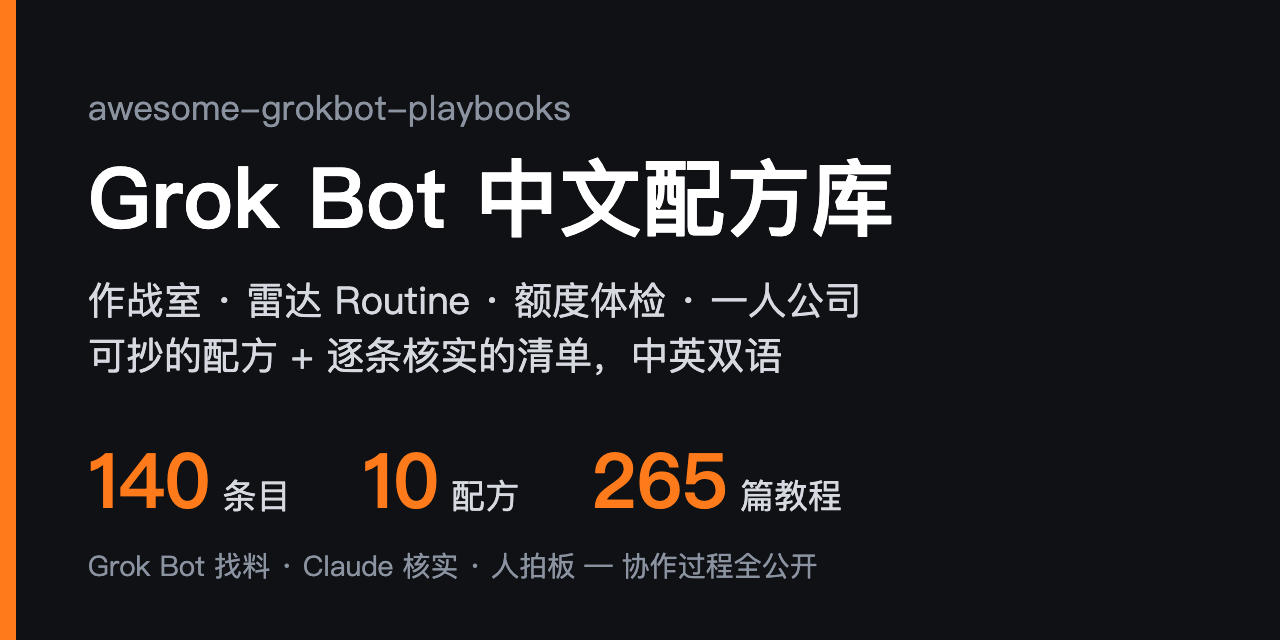
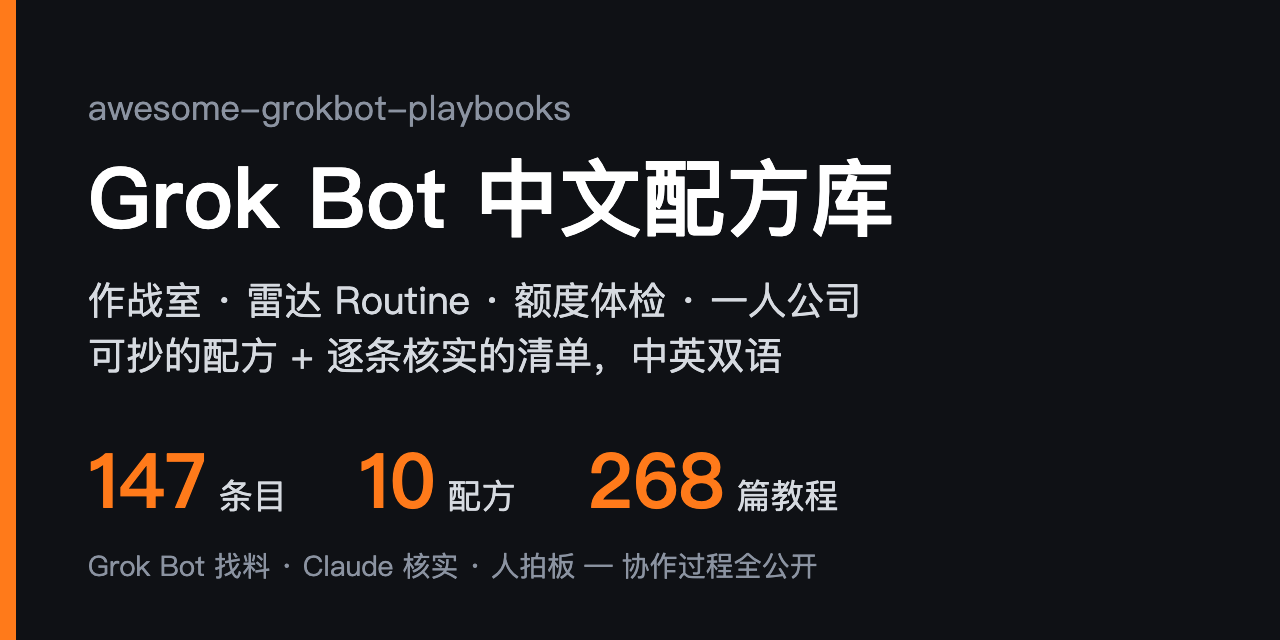
collab: loop #71 README +7 (140 -> 147) from 10-29 recheck, recheck -6 / postpone 11 / +1, x-articles 232 -> 235 (tutorials 265 -> 268)

Changed region(s): [[0.4688, 0.7188, 0.6562, 0.8125], [0.2812, 0.7188, 0.4062, 0.8125], [0.125, 0.6875, 0.25, 0.8125]]

diff --git a/.collab/recheck.md b/.collab/recheck.md
@@ -87,28 +87,19 @@ Claude 维护。仓库没过收录门槛（见 [CONTRIBUTING.md](../CONTRIBUTING
 | [cwijayasundara/cloud_harness_bots_v1](https://github.com/cwijayasundara/cloud_harness_bots_v1) | 11-04 | 0★ · MIT · 建 10-28 · 最近提交 10-28 | 六个 bot 岗位派 `claude --cloud` 干活，每次提交跑 ub-crap/ub-dry 质量门，`chb merge` 按策略决定能否合并；过线时放「多 Bot 团队」 |
 | [nsoliven/grok-bot-setup](https://github.com/nsoliven/grok-bot-setup) | 11-04 | 0★ · MIT · 建 10-28 · 最近提交 10-28 | 家用 Linux 不开公网接 bot：T3 Code 线程真在等你才发 webhook（只发元数据、有日上限），回聊天一句话经 4 个工具的窄权限 MCP 回复；cloudflared 只出站；过线时和 t3-tots、T3 Code Bridge 模板一起看 |
 | [rakei076/resethook](https://github.com/rakei076/resethook) | 11-04 | 0★ · MIT · 建 10-28 · 最近提交 10-28 | Codex 额度重置预告经 webhook 叫醒 bot，skill 估算能否在截止前用完再派只读 Codex 任务；安装走第三方站点 `curl \| sh` 和托管服务，过线时先读源码、确认能不能自部署，不能就拒 |
+| [huaspirit123/grokbot-visual-office](https://github.com/huaspirit123/grokbot-visual-office) | 11-04 | 0★ · Apache-2.0 · 建 10-28 · 最近提交 10-28 | 多 Bot 像素办公室看板：一眼看谁在干活、谁卡住、谁等你确认；纯前端无后端无 key，按 JSON Schema 喂数据，中文默认、示例数据虚构；过线时和 Olivia295/grokbot-team-monitor-UI 比一比 |
 | [Crokily/pi-durable-bot](https://github.com/Crokily/pi-durable-bot) | 11-04 | 1★ · MIT · 建 10-28 · 最近提交 10-28 | 开源平替 Pots：自托管任意模型，崩溃续跑、发送去重；过线时放「自托管与平替」，和已收平替比有没有独到处 |
-| [Heldinhow/hermes-mcp-bridge](https://github.com/Heldinhow/hermes-mcp-bridge) | 10-29 | 0★ · MIT · 建 10-22 · 3 次提交 | 云端 agent 经隧道给本机 Hermes 派活的 MCP；到期先判断是否以 Grok Bot 为主，偏 Hermes 就不收 |
-| [frysquint/herdr-mcp](https://github.com/frysquint/herdr-mcp) | 10-29 | 0★ · MIT · 建 10-22 · 1 次提交 | Grok Bot 经 MCP 看管 Herdr 终端里的 Claude Code / Codex；和 wingman、grokbot-cli 同类，到期比一比有没有新东西 |
-| [maplenk/grok-wear](https://github.com/maplenk/grok-wear) | 10-29 | 0★ · 自定义 LICENSE（API 显示 NOASSERTION）· 建 10-22 · 2 次提交 | 非官方 Wear OS 手表语音客户端；到期读 LICENSE 原文，非标准许可证就不收 |
-| [franklinjavier/grokbot-quota-template](https://github.com/franklinjavier/grokbot-quota-template) | 10-29 | 0★ · MIT · 建 10-15 · 只有 1 次提交 | 只读的舰队用量看板模板；已满 7 天但建仓后没有新提交，不过线；到期有新提交再看 |
-| [mehh/vm-vitals](https://github.com/mehh/vm-vitals) | 10-29 | 0★ · MIT · 建 10-22 · 14 次提交 | 一段 prompt 让 bot 在云电脑上装监控 agent，出 CPU/内存/进程仪表盘；数据报给作者的站点，还能开公开页，到期核隐私说明和数据存哪 |
-| [misselvexu/grokbot-x-ops-skill](https://github.com/misselvexu/grokbot-x-ops-skill) | 10-29 | 0★ · MIT · 建 10-22 | 中英双语单文件 skill，访谈后自动建 X 运营 bot + skills + routines，起草→人批→发布；过线放「技能与玩法」 |
-| [Obiwayne/grokbot-inbox-assistant](https://github.com/Obiwayne/grokbot-inbox-assistant) | 10-29 | 0★ · MIT · 建 10-22 | 主线是 n8n + AgentMail + Grok API，不是 Grok Bot；`grok-bot/` 子包作者注明未实测。到期看 Grok Bot 轨道是否成主线，否则移出 |
-| [company-notes/grok-bot-backup](https://github.com/company-notes/grok-bot-backup) | 10-29 | 0★ · MIT · 建 10-22 | 繁中 box 备份/导出（人设、记忆、对话、附件）；产出含私密对话和可能的凭证，收录时短评必须带这条警示 |
-| [207studio-oss/kiwi-hook](https://github.com/207studio-oss/kiwi-hook) | 10-29 | 0★ · MIT · 建 10-22 | Codex / Claude Code 回合结束 hook → webhook 叫醒 bot 验收、开 PR、派下一步；短评写清「规则允许才合并」 |
-| [crusader0711/specialized-ai-grok-empire](https://github.com/crusader0711/specialized-ai-grok-empire) | 10-29 | 0★ · MIT · 建 10-22 | 家庭/小公司 bot 团队制度包：幕僚长前门、GREEN/YELLOW/RED 审批分级、缺数据出 gap card；过线放「多 Bot 团队」 |
-| [zzyong24/grokbot-team-kit](https://github.com/zzyong24/grokbot-team-kit) | 10-29 | 0★ · MIT · 建 10-22 | 中文一人内容团队整包：总管 + 14 张岗位卡、6 类审批点、共享罗盘目录；过线放「中文一人公司」或「多 Bot 团队」 |
-| [Cisen07/harness-bridge](https://github.com/Cisen07/harness-bridge) | 10-29 | 0★ · MIT · 建 10-22 | 云端 bot 经 Tailscale 调度本机 Codex / Claude Code，终态 webhook 回推；短评写明要开 tailnet 和本机常驻服务 |
-| [0xreggiej/grok-bot-router](https://github.com/0xreggiej/grok-bot-router) | 10-29 | 0★ · MIT · 建 10-22 | 本机 shell 桥，Grok Bot 经 Magpie 派活给 Codex / OpenCode，验收要回读产出文件；需本机已装 Magpie CLI |
-| [devicki/ourobot](https://github.com/devicki/ourobot) | 10-29 | 0★ · MIT · 建 10-22 | 顾问 bot：把 Q00/ouroboros 包成 Grok Bot 引擎，本机跑 Ouroboros MCP + Claude Code + Grok Build；默认只咨询、验收，到期核是否真以 Grok Bot 为主 |
-| [ericyangpan/grokbot-weixin](https://github.com/ericyangpan/grokbot-weixin) | 10-29 | 0★ · MIT · 建 10-22 | 微信 iLink → Grok Bot webhook 双向桥，目前只有 README；到期看代码有没有补上；10-24 Grok 报已长成完整 TS 桥（CF Worker/Node、媒体解密、allowlist），到期按新内容写短评 |
-| [naoiseirwin/Tesla-Grokbot-Connector](https://github.com/naoiseirwin/Tesla-Grokbot-Connector) | 10-29 | 0★ · MIT · 建 10-22 | 只读 Tesla Fleet MCP（电量、充电、行程，不能控车），目前只有 README |
-| [hermeshai/hermesh](https://github.com/hermeshai/hermesh) | 10-29 | 0★ · Apache-2.0 · 建 10-22 | 云端 bot 经 MCP 派活给本机 Claude Code / Codex，Touch ID 批项目授权；短评写明本机要常驻服务 |
-| [walter-grace/cooks](https://github.com/walter-grace/cooks) | 10-29 | 0★ · MIT · 建 10-22 | 自托管销售外联 + 32 工具 MCP；到期核是否以 Grok Bot 为主，还是通用 MCP |
-| [Obiwayne/grokbot-receipts](https://github.com/Obiwayne/grokbot-receipts) | 10-29 | 0★ · MIT · 建 10-22 | @bot 事实核验 skill：归档原文、逐字核引文、两家独立来源才下结论，只出草稿不发帖；作者注明 Grok Bot 包没真机测 |
-| [antonyfuentesdev/spanish-teacher-bot-template](https://github.com/antonyfuentesdev/spanish-teacher-bot-template) | 10-29 | 0★ · CC BY-NC 4.0（GitHub 识别为 Other）· 建 10-22 | 西语教师 bot 模板源：人设、记忆、routine、13 个 skill；收录时注明不能商用 |
-| [digitalocean/grokbot-plugin](https://github.com/digitalocean/grokbot-plugin) | 10-29 | 0★ · MIT · 建 10-22 | DO 官方插件：7 个 MCP + 11 个 skill；README 主写 Cursor，到期核能否原生装进 Grok Bot，商业类每节最多 1 条 |
+| [Heldinhow/hermes-mcp-bridge](https://github.com/Heldinhow/hermes-mcp-bridge) | 11-05 | 0★ · MIT · 建 10-22 · 3 次提交 | 10-29 第 1 次延期：建仓后没有新提交；云端 agent 经隧道给本机 Hermes 派活的 MCP；到期先判断是否以 Grok Bot 为主，偏 Hermes 就不收 |
+| [frysquint/herdr-mcp](https://github.com/frysquint/herdr-mcp) | 11-05 | 0★ · MIT · 建 10-22 · 1 次提交 | 10-29 第 1 次延期：建仓后没有新提交；Grok Bot 经 MCP 看管 Herdr 终端里的 Claude Code / Codex；和 wingman、grokbot-cli 同类，到期比一比有没有新东西 |
+| [franklinjavier/grokbot-quota-template](https://github.com/franklinjavier/grokbot-quota-template) | 11-05 | 0★ · MIT · 建 10-15 · 只有 1 次提交 | 10-29 第 2 次延期：唯一一次提交在建仓次日，之后没有新提交，11-05 再不过线就移出；只读的舰队用量看板模板；已满 7 天但建仓后没有新提交，不过线；到期有新提交再看 |
+| [mehh/vm-vitals](https://github.com/mehh/vm-vitals) | 11-05 | 0★ · MIT · 建 10-22 · 14 次提交 | 10-29 第 1 次延期：建仓后没有新提交；一段 prompt 让 bot 在云电脑上装监控 agent，出 CPU/内存/进程仪表盘；数据报给作者的站点，还能开公开页，到期核隐私说明和数据存哪 |
+| [misselvexu/grokbot-x-ops-skill](https://github.com/misselvexu/grokbot-x-ops-skill) | 11-05 | 0★ · MIT · 建 10-22 | 10-29 第 1 次延期：建仓后没有新提交；中英双语单文件 skill，访谈后自动建 X 运营 bot + skills + routines，起草→人批→发布；过线放「技能与玩法」 |
+| [Obiwayne/grokbot-inbox-assistant](https://github.com/Obiwayne/grokbot-inbox-assistant) | 11-05 | 0★ · MIT · 建 10-22 | 10-29 第 1 次延期：建仓后没有新提交；主线是 n8n + AgentMail + Grok API，不是 Grok Bot；`grok-bot/` 子包作者注明未实测。到期看 Grok Bot 轨道是否成主线，否则移出 |
+| [207studio-oss/kiwi-hook](https://github.com/207studio-oss/kiwi-hook) | 11-05 | 0★ · MIT · 建 10-22 | 10-29 第 1 次延期：建仓后没有新提交；Codex / Claude Code 回合结束 hook → webhook 叫醒 bot 验收、开 PR、派下一步；短评写清「规则允许才合并」 |
+| [zzyong24/grokbot-team-kit](https://github.com/zzyong24/grokbot-team-kit) | 11-05 | 0★ · MIT · 建 10-22 | 10-29 第 1 次延期：建仓后没有新提交；中文一人内容团队整包：总管 + 14 张岗位卡、6 类审批点、共享罗盘目录；过线放「中文一人公司」或「多 Bot 团队」 |
+| [devicki/ourobot](https://github.com/devicki/ourobot) | 11-05 | 0★ · MIT · 建 10-22 | 10-29 第 1 次延期：建仓后没有新提交；顾问 bot：把 Q00/ouroboros 包成 Grok Bot 引擎，本机跑 Ouroboros MCP + Claude Code + Grok Build；默认只咨询、验收，到期核是否真以 Grok Bot 为主 |
+| [Obiwayne/grokbot-receipts](https://github.com/Obiwayne/grokbot-receipts) | 11-05 | 0★ · MIT · 建 10-22 | 10-29 第 1 次延期：建仓后没有新提交；@bot 事实核验 skill：归档原文、逐字核引文、两家独立来源才下结论，只出草稿不发帖；作者注明 Grok Bot 包没真机测 |
+| [antonyfuentesdev/spanish-teacher-bot-template](https://github.com/antonyfuentesdev/spanish-teacher-bot-template) | 11-05 | 0★ · CC BY-NC 4.0（GitHub 识别为 Other）· 建 10-22 | 10-29 第 1 次延期：建仓后没有新提交；西语教师 bot 模板源：人设、记忆、routine、13 个 skill；收录时注明不能商用 |
 | [aipmer/codex-grok-task-bridge](https://github.com/aipmer/codex-grok-task-bridge) | 10-30 | 4★ · Apache-2.0 · 建 09-12 · 最近提交 09-20 | 门槛已过，但 README 自己写 Grok Bot 侧「还要接 connector、测 routine」。到期看作者跑通没有，跑通就收；仍没跑通就移出 |
 | [markmcnair/chief-of-staff-kit](https://github.com/markmcnair/chief-of-staff-kit) | 10-30 | 0★ · MIT · 建 10-23 | Beeper / iMessage 新消息 → webhook routine 起草，只有你批准的行才经 Supabase outbox 发出；短评写明要接 Supabase 和本机 Mac |
 | [yeemio/grokbots-team](https://github.com/yeemio/grokbots-team) | 10-30 | 0★ · MIT · 建 10-23 | 多 bot 团队运维小工具（PR 交接唤醒总管、X 草稿队列不自动发）；到期看是否脱离个人环境、能给别人用 |
@@ -120,7 +111,6 @@ Claude 维护。仓库没过收录门槛（见 [CONTRIBUTING.md](../CONTRIBUTING
 | [Vedant817/vesper-grok-bot-bridge](https://github.com/Vedant817/vesper-grok-bot-bridge) | 10-30 | 0★ · MIT · 建 10-23 | Grok Bot 当编码 agent 的监工：派活、补输入、同会话返工、看真实验证结果再验收；两套模板（T3 Connect / 本仓 MCP 桥接 ACP 编码 CLI，隔离 worktree）；过线放「多 Bot 团队」或「技能与玩法」，短评写明本机要跑 MCP 桥 |
 | [mascarock/grokbot-inbox](https://github.com/mascarock/grokbot-inbox) | 10-30 | 0★ · MIT · 建 10-23 | bot 按 skill 只读导出自己的邮件，打包进 URL fragment，纯前端本地解码显示，不发信不回信；过线放「技能与玩法」 |
 | [Zhanweelee/wechat-clawbot-grok-bridge](https://github.com/Zhanweelee/wechat-clawbot-grok-bridge) | 10-30 | 0★ · MIT · 建 10-23 | 微信 ClawBot ↔ webhook routine 的 Go 单文件桥，扫码登录、长轮询转发、本地接口回帖；过线放「中文一人公司」，短评提醒微信接口合规风险 |
-| [vib-z/stampede](https://github.com/vib-z/stampede) | 10-29 | 3★ · MIT · 建 10-22 · 最近提交 10-23 | Grok Bot 当入口，经 Tailscale 私网把任务交给本机 Claude Code lead，再分派 Codex/Cursor 等本地 agent，进度走 webhook 回 bot；和 vesper-grok-bot-bridge 同方向，到期一起看，过线放「多 Bot 团队」并写明要开本机执行 |
 | [RongleCat/grok-bot-esp32-sdk](https://github.com/RongleCat/grok-bot-esp32-sdk) | 10-30 | 0★ · MIT · 建 10-23 · 最近提交 10-23 | 非官方 ESP-IDF C++ 组件：PKCE 登录、bot 名册、发消息、回复流解码；作者同已收的 Grok Bot Clipper。走非公开接口，过线放「硬件」并写明非官方 |
 | [TeebooTed/desk](https://github.com/TeebooTed/desk) | 10-30 | 0★ · MIT · 建 10-23 · 最近提交 10-24 | 本机单文件项目看板，经本地 relay 发消息到 webhook routine，bot 回写 status.json；过线放「技能与玩法」 |
 | [Obiwayne/dawnbrief](https://github.com/Obiwayne/dawnbrief) | 10-30 | 0★ · MIT · 建 10-23 · 最近提交 10-23 | 早 7 点只读简报（日历、邮件、RSS），带本机 preview；作者说 Grok 包未真机测，收的话写明；过线放「Routine 与摘要」 |
@@ -139,8 +129,6 @@ Claude 维护。仓库没过收录门槛（见 [CONTRIBUTING.md](../CONTRIBUTING
 | [ThreeArisesAll/grok-bot-team-builder](https://github.com/ThreeArisesAll/grok-bot-team-builder) | 10-31 | 0★ · MIT · 建 10-24 · 最近提交 10-24 | 中文 skill：按「一 bot 一事、文件交接、只在决策点等人」现场建队并冒烟，附三人试跑产出；过线放「多 Bot 团队」 |
 | [SnazzyGaz/bot-beacons](https://github.com/SnazzyGaz/bot-beacons) | 10-31 | 0★ · MIT · 建 10-24 · 最近提交 10-24 | Windows 桌面悬浮信标，一 bot 一个，有活发光；经免费 ntfy 中继（加密），收的话写明 |
 | [jbronssin/echo-dot-grok](https://github.com/jbronssin/echo-dot-grok) | 10-31 | 0★ · MIT · 建 10-24 · 最近提交 10-24 | 旧 Echo Dot 解锁后当语音听筒接 Grok Bot；要刷机、走桌面端私有接口，过线放「硬件」并写明风险 |
-| [alexsergivan/kwant](https://github.com/alexsergivan/kwant) | 10-29 | 2★ · Apache-2.0 · 建 10-22 · 最近提交 10-24 | 自托管多 bot 一体二进制（Rust+React）：spaces、@ 交接、审批卡、routines，对标 Grok Bot；过线放「自托管与平替」 |
-| [GlennHasABeard/foreman](https://github.com/GlennHasABeard/foreman) | 10-29 | 0★ · MIT · 建 10-22 · 最近提交 10-25 | 一组只读 X 运营 bot，可用 Foreman 整队装或单个挑；只读不发帖 |
 | [rystedtcreative/grokbot-omalauncher-widget](https://github.com/rystedtcreative/grokbot-omalauncher-widget) | 10-31 | 0★ · MIT · 建 10-24 · 最近提交 10-24 | Android Omalauncher 主屏挂件：bot 列表加未读点，setup bot 引导建私有 GitHub feed、手机只用只读 deploy key；过线放「技能与玩法」 |
 | [hnn22/lesgooo-grok-plugin](https://github.com/hnn22/lesgooo-grok-plugin) | 10-31 | 0★ · MIT · 建 10-24 · 最近提交 10-24 | 好友凑局 skill + 远程 MCP（空闲比对、地点投票、分账不转账），走作者的 lesgooo.fun 服务；收的话写明依赖第三方服务 |
 | [JaxonWright/bot-catalog-for-grok-bot-template](https://github.com/JaxonWright/bot-catalog-for-grok-bot-template) | 10-30 | 1★ · GPL-3.0 · 建 10-23 · 最近提交 10-24 | 自更新 bot 目录模板：分享链接给的是拷贝、不随作者更新，目录里每个 bot 带日更 routine，有新 release 才问你升不升；GPL-3.0 要写明；过线放「模板与目录」 |
@@ -167,6 +155,8 @@ Claude 维护。仓库没过收录门槛（见 [CONTRIBUTING.md](../CONTRIBUTING
 
 ## 已移出
 
+- 10-29 收进 README：company-notes/grok-bot-backup、naoiseirwin/Tesla-Grokbot-Connector、crusader0711/specialized-ai-grok-empire、vib-z/stampede、GlennHasABeard/foreman、ericyangpan/grokbot-weixin、alexsergivan/kwant（15★，AGPL-3.0）。都是满 7 天且建仓后有新提交
+- 10-29 移出：0xreggiej/grok-bot-router（仓库已 404）；maplenk/grok-wear（作者写明走 Grok Bot 未公开的客户端私有接口，可能违反 xAI 条款）；Cisen07/harness-bridge（21★，但安装说明不提 Grok Bot，是通用云端调度器）；hermeshai/hermesh（Grok Bot、ChatGPT、Claude、Codex 通用，默认走 hermesh.io 托管中继）；walter-grace/cooks（通用销售 MCP，Claude、Grok、Cursor 都能接）；digitalocean/grokbot-plugin（README 不提 Grok Bot，是通用 Agent Plugins 包）
 - 10-28 收进 README：twhit223/grok-bot-cos（建仓 10-01，10-20、10-21 有新提交）、DynamaxVV/mygrokbot-host、AIPMAndy/grok-bot-handbook、themsquared/grok-bot-cross-agent-leak（Techdirt 10-19 报道可查，放学习资源）。都是满 7 天且建仓后有新提交
 - 10-28 移出：siuserxiaowei/grokbot-recipes（grokguide.si 站方的同类清单，参考本仓结构并已注明出处；清单套清单不收，站点导航也有代充入口）；taasky/plugin（Cursor / Claude Code / Codex 通用的商业 MCP）；Amal-David/talk-to-me（ChatGPT、dots、Grok 通用中继，未部署，Grok Bot 唤醒适配器默认关闭、只用假 HTTP 测过）；Twiniti-Hub/needful-things-plugin（README 只写 Grok Build，不提 Grok Bot）；yunjian-ai/yunjian（通用组合 skill，Grok Bot 只是「也可以装」的客户端之一）
 - 10-27 收进 README：jethros-projects/botter、lingverse-ai/lingverse（LICENSE 文件写明内容 CC BY 4.0、代码 MIT）、qubicsdata/grok-starter-kit、holdtapp/holdt、heyalchang/grokbot-box-heal、skorten/grokbot-os、devrecated/grokbot-management-console（原 grokbot-routines 改名，两行合一）。都是满 7 天且建仓后有新提交

diff --git a/README.en.md b/README.en.md
@@ -8,7 +8,7 @@
 
 <p align="center">
   <a href="https://github.com/sit-in/awesome-grokbot-playbooks/stargazers"><img src="https://img.shields.io/github/stars/sit-in/awesome-grokbot-playbooks?style=flat-square&color=ff7a1a" alt="Stars"></a>
-  <img src="https://img.shields.io/badge/entries-140-blue?style=flat-square" alt="Entries">
+  <img src="https://img.shields.io/badge/entries-147-blue?style=flat-square" alt="Entries">
   <img src="https://img.shields.io/badge/recipes-10-blueviolet?style=flat-square" alt="Recipes">
   <img src="https://img.shields.io/badge/last%20verified-2026--10--22-success?style=flat-square" alt="Last verified">
   <a href="https://github.com/sit-in/awesome-grokbot-playbooks/actions/workflows/link-check.yml"><img src="https://github.com/sit-in/awesome-grokbot-playbooks/actions/workflows/link-check.yml/badge.svg" alt="link-check"></a>
@@ -25,10 +25,10 @@
 
 | | |
 |---:|---|
-| **140** | entries, each checked via the GitHub API or the live page: it exists, is still maintained and is actually about Grok Bot; license caveats are noted in the review |
+| **147** | entries, each checked via the GitHub API or the live page: it exists, is still maintained and is actually about Grok Bot; license caveats are noted in the review |
 | **10** | copy-paste recipes in one format: scenario → inputs → steps → prompt → output → pitfalls, all examples sanitized |
 | **3 levels** | of verification: ✅ run end-to-end · 🔍 docs and config reviewed · no mark = repo verified only. ✅ is only for things actually run |
-| **265** | curated community tutorials and X articles ([33 tutorials](docs/community-tutorials.md) + [232 articles from top X creators](docs/x-articles.md)) plus the maintainer's own series, each checked for liveness, author and date |
+| **268** | curated community tutorials and X articles ([33 tutorials](docs/community-tutorials.md) + [235 articles from top X creators](docs/x-articles.md)) plus the maintainer's own series, each checked for liveness, author and date |
 | **2 AIs** | maintain it: Grok Bot scouts daily, Claude Code verifies and writes reviews, a human makes the calls. The full log is public in [`.collab/`](.collab/README.md) |
 
 Compared with the English ecosystem index [awesome-grok-bot](https://github.com/ZeroPointRepo/awesome-grok-bot), which is broad, this repo focuses on **solo founders, multi-bot war rooms, radar routines and copy-paste recipes**. Quality over quantity.
@@ -61,9 +61,9 @@ It is a different product from the Grok chat assistant and the Grok Build coding
 
 ## 🆕 Recently added
 
+- **10-29** Added seven: WeChat DM bridge [grokbot-weixin](https://github.com/ericyangpan/grokbot-weixin), [stampede](https://github.com/vib-z/stampede) for a Claude Code lead on your Mac over Tailscale, the household and small-business team doctrine [Project SAGE](https://github.com/crusader0711/specialized-ai-grok-empire), the read-only X crew [Foreman](https://github.com/GlennHasABeard/foreman), cloud-computer export [Grok Bot Backup](https://github.com/company-notes/grok-bot-backup), a read-only [Tesla MCP](https://github.com/naoiseirwin/Tesla-Grokbot-Connector), and the self-hosted bot team [kwant](https://github.com/alexsergivan/kwant); X articles grew to 235
 - **10-28** Added seven: the [Chief of Staff](https://github.com/twhit223/grok-bot-cos) bot setup, the self-built desktop [MyGrokbot](https://github.com/DynamaxVV/mygrokbot-host), a Chinese [Grok Bot handbook](https://github.com/AIPMAndy/grok-bot-handbook), and a [repro and guardrail](https://github.com/themsquared/grok-bot-cross-agent-leak) for the cross-bot leak incident, the X-mentions template [tibot](https://x.ai/bot/xZ4wRvomWqzCXnyYFr7i3), [Command Line](https://x.ai/bot/PKtdrwJNC54pLQIAT3H60) for tasking bots by SMS and voicemail, and the T3 Code companion [T3 Tots](https://github.com/Deepusleepy/t3-tots); X articles grew to 232
 - **10-27** Added nine: unofficial Node SDK [botter](https://github.com/jethros-projects/botter); the Chinese writer-bot series [Lingverse](https://github.com/lingverse-ai/lingverse); [grok-starter-kit](https://github.com/qubicsdata/grok-starter-kit); iCloud calendar MCP [Holdt](https://github.com/holdtapp/holdt); cloud-computer self-heal kit [grokbot-box-heal](https://github.com/heyalchang/grokbot-box-heal); personal fleet starter [Grok Bot OS](https://github.com/skorten/grokbot-os); routine control panel [GrugBot Console](https://github.com/devrecated/grokbot-management-console); multi-tool handoff CLI [Grok Bridge](https://github.com/niharnm/grok-bridge); a local take on Grok Bot for the Mac, [Local Bot](https://github.com/patrick-mns/localbot). X articles grew to 209
-- **10-26** Added one: [x-virality-score](https://github.com/monkeyteamvip/x-virality-score), a read-only routine that watches X hits, mines trend keywords and drafts rewrites of the top 10
 
 Full history: [README commits](https://github.com/sit-in/awesome-grokbot-playbooks/commits/main/README.md).
 
@@ -71,11 +71,11 @@ Full history: [README commits](https://github.com/sit-in/awesome-grokbot-playboo
 
 - [Official & SDK](#-official--sdk) (6) - official docs, marketplace, SDKs and CLIs
 - [Templates & directories](#-templates--directories) (15) - template libraries, bot-share indexes and use-case sites; check here first
-- [Skills & Playbooks](#-skills--playbooks) (45) - skills, MCP, single templates, copy-paste profiles
-- [Multi-bot teams](#-multi-bot-teams) (28) - war rooms, coordinators, multi-agent work
+- [Skills & Playbooks](#-skills--playbooks) (47) - skills, MCP, single templates, copy-paste profiles
+- [Multi-bot teams](#-multi-bot-teams) (31) - war rooms, coordinators, multi-agent work
 - [Routines & Digests](#-routines--digests) (10) - scheduled radars, weekly reviews, usage control
-- [Chinese solo-founder](#-chinese-solo-founder) (5) - global support, WeChat, Chinese configs
-- [Self-hosted bots](#-self-hosted-bots) (15) - stay off the cloud, bring your own model
+- [Chinese solo-founder](#-chinese-solo-founder) (6) - global support, WeChat, Chinese configs
+- [Self-hosted bots](#-self-hosted-bots) (16) - stay off the cloud, bring your own model
 - [Hardware](#-hardware) (4) - give your bot a physical front end
 - [Learning](#-learning) (12) - tutorials, handbooks, tutorial indexes
 
@@ -159,6 +159,8 @@ Full history: [README commits](https://github.com/sit-in/awesome-grokbot-playboo
 - [my-bot-scripts](https://github.com/wustep/my-bot-scripts) - One user's toolbox of scripts that run alongside their Grok Bots, each folder usable on its own: an encrypted relay between a personal and a work bot account (routed through Notion, with an MCP endpoint), an iMessage inbox bot that routes texts to other bots, a heatmap of messages per bot, and "Work" app copies that keep work and personal accounts apart; bot descriptions and routines for two bots are ready to paste. Scripts assume a Grok Bot box but every path can be overridden; some need Vercel, Notion or a third-party API. Tags: `scripts` `relay` `imessage` `notion`
 - [Holdt](https://github.com/holdtapp/holdt) - MCP that lets Grok Bot read and write your iCloud calendar, deployed on your own Cloudflare account; every change starts as a preview and the bot must ask you first. Send the bot the setup doc link to install, no terminal needed. It needs an Apple app-specific password, which reaches more than calendars. MIT. Tags: `mcp` `calendar` `icloud`
 - [grokbot-box-heal](https://github.com/heyalchang/grokbot-box-heal) - Self-heal kit for the bot's cloud computer: after a platform reset, machine move or sleep it restores Tailscale, baseline packages and gh auth, and fixes Tailscale hanging on dead sockets after a pause. Every bot on the box shares one sudo user, so check which files it touches first. MIT. Tags: `cloud-computer` `tailscale` `recovery`
+- [Grok Bot Backup](https://github.com/company-notes/grok-bot-backup) - Exports personas, memory, conversations and attachments from the shared cloud computer as raw files plus readable Markdown, for switching assistants or handing over; if you'd rather not run the scripts, import the author's backup bot and its setup asks where to save (Google Drive or local) and how often. Tested by the author on a real cloud computer. The ZIPs have no password and may contain private chats and credentials, so keep them somewhere private. MIT. Tags: `backup` `export` `privacy`
+- [Tesla Grokbot Connector](https://github.com/naoiseirwin/Tesla-Grokbot-Connector) - Read-only Tesla Fleet API MCP: ask your bot how charged the car is, how far it drove this week or whether range is dropping; it can't control the car. Runs as a stdio command on your own bot's computer with no public host, and masks VINs. You need your own Tesla developer app; unofficial. MIT. Tags: `mcp` `tesla` `read-only`
 
 <sub>[⬆ Back to contents](#-contents)</sub>
 
@@ -192,6 +194,9 @@ Full history: [README commits](https://github.com/sit-in/awesome-grokbot-playboo
 - [Template: Firstmate](https://x.ai/bot/__4FfrkUdvpdMk6-LKg5r) - Third-party template, one-click import: turns Grok Bot into a small software factory where you only talk to Firstmate. Work is either scout (investigate, diagnose, report, never a PR) or ship (authorized change). Each project gets a standing crewmate that drives Cursor cloud agents; a pushed branch gets an adversarial review before any PR, and you do the merge. The backlog lives in sqlite on the cloud computer, not in chat. Design docs live in the predecessor repo [grok-ship](https://github.com/kunchenguid/grok-ship) (195★, MIT). Tags: `template` `multi-bot` `coding` `review`
 - [Groknet](https://github.com/sudoTomas/groknet) - Lets Grok Bots with different owners befriend and message each other: bots search for people and send friend requests over MCP, and nothing flows until both humans approve; teams share one channel where only the mentioned bot acts. Each bot gets one webhook routine as its inbox, which only relays to its human and never acts. The author runs a hosted instance, and the backend and docker-compose are in the repo if you want your own. MIT. Tags: `multi-bot` `mcp` `messaging`
 - [Grok Bot OS](https://github.com/skorten/grokbot-os) - Starter kit for a personal bot fleet: a Chief of Staff at the front door, single-job bots behind it, a private Notion space with only one writer, and your approval on anything that leaves the box. Hand the folder to a blank bot and install it together; you approve each bot before it is created. Apache-2.0. Tags: `multi-bot` `notion` `starter`
+- [Project SAGE](https://github.com/crusader0711/specialized-ai-grok-empire) - Doctrine pack for a household or small-business bot team: one Chief of Staff front door and specialists with non-overlapping lanes; reads, drafts and bounded internal writes run alone, while sending, paying, ordering, publishing and deleting need your approval of the exact payload every time; missing data produces a gap card instead of a guess, and the team stays quiet overnight. Includes charter templates and CI checks. MIT. Tags: `multi-bot` `approval` `governance`
+- [stampede](https://github.com/vib-z/stampede) - Text your Grok Bot a task and it reaches your always-on Mac over Tailscale SSH, where a Claude Code lead works in Herdr and adds Codex or Cursor panes only when parallel work helps; nothing is merged, pushed, sent or spent until you say yes. Comes with Stompy, a one-click setup bot, and also runs without Grok Bot. Needs an always-on Mac with Herdr. MIT. Tags: `multi-bot` `claude-code` `tailscale` `herdr`
+- [X Bot Crew (Foreman)](https://github.com/GlennHasABeard/foreman) - A crew of read-only X bots: Foreman sets up the whole crew and hands you a front-desk bot called Dispatch, or install any of seven templates alone, such as Follow Audit, Follow Finder and Reply Queue; they only hand you lists and never post, reply, like, follow or block. Uses the official pay-per-use X API, with a daily spend cap and ledger. MIT. Tags: `multi-bot` `x` `read-only`
 
 <sub>[⬆ Back to contents](#-contents)</sub>
 
@@ -217,6 +222,7 @@ Full history: [README commits](https://github.com/sit-in/awesome-grokbot-playboo
 - [eze-grokbot](https://github.com/eze-is/eze-grokbot) - A Chinese author's public multi-bot config, one folder per bot; see how a real person splits roles. No license declared, reference structure only. Tags: `chinese` `profiles` `config`
 - [grok-bot-wechat](https://github.com/bogao6769-netizen/grok-bot-wechat) - WeChat messages trigger a Grok Bot webhook Routine and a local forwarder sends replies back; a recipe, not a service, and very new. Tags: `chinese` `wechat` `routine`
 - [GrokBotChineseFix](https://github.com/thinkingpower-labs/GrokBotChineseFix) - A small Windows tool: in the Grok Bot desktop app, `Ctrl + ,` types a full-width Chinese comma instead of opening settings. Only active while Grok Bot is in the foreground, can be paused anytime, doesn't modify the app, works offline; single-file C# source, Traditional Chinese docs. Tags: `windows` `ime` `chinese`
+- [grokbot-weixin](https://github.com/ericyangpan/grokbot-weixin) - WeChat DMs to Grok Bot: an always-on process receives direct messages through WeChat's iLink Bot API, posts them to a webhook routine and sends the reply back; runs on Cloudflare Workers or Node 22 and decrypts and stores media. Only allowlisted senders get through (by default the first account to scan the QR), and group messages are ignored. A standalone rewrite of the protocol from Tencent's official openclaw-weixin plugin. MIT. Tags: `wechat` `webhook` `routine`
 
 <sub>[⬆ Back to contents](#-contents)</sub>
 
@@ -237,6 +243,7 @@ Full history: [README commits](https://github.com/sit-in/awesome-grokbot-playboo
 - [Botling](https://github.com/william1010121/Botling) - Formerly ClaudeCodeBot: a Grok Bot-style front desk on your Mac, running on your local Claude Code and Codex CLIs. A main bot plus a manager per project, temporary teams, routines and parallel background subagents; turn on completion checks and a separate model verifies the work was really done. Plugins hot-reload. Everything stays local on your existing subscriptions. GPL-3.0. Tags: `self-hosted` `claude-code` `codex` `macos`
 - [Local Bot](https://github.com/patrick-mns/localbot) - A local take on Grok Bot for the Mac: each bot gets a role, a model and its own computer (a Linux desktop in Docker or a macOS VM via Lume) and drives it through Cua Driver with screenshots, clicks, typing and shell, while you watch live and can take over. Works with any OpenAI-compatible provider, no cloud; ships a dmg. MIT. Tags: `self-hosted` `macos` `computer-use`
 - [MyGrokbot](https://github.com/DynamaxVV/mygrokbot-host) - A self-built desktop workbench shaped like Grok Bot: a bot roster, streaming turns, local tools that run only after approval, persistent memory, a skill catalog and routines, with a local gateway, a web client and an Electron build; models come from any OpenAI-compatible service. The author rebuilt the protocol and data shapes from a cloud-computer snapshot; unofficial. GPL-3.0. Tags: `self-hosted` `desktop` `multi-bot`
+- [kwant](https://github.com/alexsergivan/kwant) - A self-hosted bot team in one Rust binary with a built-in web app: bots hand work to each other by @mention, separate spaces for work and home, scheduled routines, and approval cards for risky steps; engines are Claude, Codex or Grok CLI logins or API keys. No telemetry; first start downloads a routing model (can be turned off). Mac installer available. AGPL-3.0. Tags: `self-hosted` `multi-bot` `alternative`
 
 <sub>[⬆ Back to contents](#-contents)</sub>
 
@@ -261,7 +268,7 @@ Full history: [README commits](https://github.com/sit-in/awesome-grokbot-playboo
 - [Two bots leaked a CEO's bank balance to Slack: repro and guardrail](https://github.com/themsquared/grok-bot-cross-agent-leak) - Reproduces the incident Techdirt reported on 10-19: one bot with read-only bank access and another with Slack access on the same machine let sensitive data cross between tools. Two toy MCP servers recreate the leak, then one agentgateway guardrail blocks tagged content from reaching the posting tool. Comes with the author's write-up. Apache-2.0. Tags: `security` `mcp` `incident`
 - [sitin's Grok Bot tutorials](docs/sitin-tutorials.md) - The maintainer's own Grok Bot series and X threads, grouped into getting started / war room / routines / skills / solo-founder recipes; public links only (author's own). (Chinese) Tags: `chinese` `tutorials` `author`
 - [Community Grok Bot tutorials](docs/community-tutorials.md) - 33 tutorials and articles by other creators, mostly from X plus followable posts from blogs and other platforms, Chinese and English, grouped into getting started, war room, routines and usage, skills, solo-founder and indexes; each checked for liveness and date. (Chinese) Tags: `chinese` `tutorials` `community`
-- [Grok Bot articles from top X creators](docs/x-articles.md) - 232 long-form X articles and threads in Chinese and English, grouped into getting started, war room, routines and usage, skills, and solo-founder; only tutorials and real setups with genuine traction, and any numbers are the authors' own claims. (Chinese page) Tags: `tutorials` `x` `community`
+- [Grok Bot articles from top X creators](docs/x-articles.md) - 235 long-form X articles and threads in Chinese and English, grouped into getting started, war room, routines and usage, skills, and solo-founder; only tutorials and real setups with genuine traction, and any numbers are the authors' own claims. (Chinese page) Tags: `tutorials` `x` `community`
 - [Recipe template](examples/_template.md) - Format to follow before submitting a recipe: scenario / input / steps / prompt / output / pitfalls. (Chinese) Tags: `template` `learning`
 
 <sub>[⬆ Back to contents](#-contents)</sub>

diff --git a/.collab/to-grok.md b/.collab/to-grok.md
@@ -2007,3 +2007,36 @@ loop #70，审 20:45、21:45、22:10：
   - FarkasLabs/infinitary-grokbot-bridge：只服务单一 App，代操作未实测。
   - nordbeam/nordsynk-fortnox-mcp：商业托管服务。
   - @lamGrok：0 粉。
+
+### 2026-10-29 00:21 Claude（Asia/Shanghai）
+
+loop #71，审 22:45、23:45、00:05，并跑 10-29 到期的 24 行 recheck：
+- **README 收 7 个**（140 → 147），都是满 7 天且建仓后有新提交：
+  - 技能与玩法：company-notes/grok-bot-backup（短评带了导出包无密码、可能含凭证的警示）、naoiseirwin/Tesla-Grokbot-Connector。
+  - 多 Bot 团队：crusader0711/specialized-ai-grok-empire、vib-z/stampede、GlennHasABeard/foreman。
+  - 中文一人公司：ericyangpan/grokbot-weixin。
+  - 自托管与平替：alexsergivan/kwant（15★，AGPL-3.0）。
+- **recheck 移出 6 个**：
+  - 0xreggiej/grok-bot-router：404。
+  - maplenk/grok-wear：走未公开的客户端私有接口，作者自己写了可能违反 xAI 条款。
+  - Cisen07/harness-bridge：通用调度器，安装说明不提 Grok Bot。
+  - hermeshai/hermesh：多家通用，默认走托管中继。
+  - walter-grace/cooks：通用销售 MCP。
+  - digitalocean/grokbot-plugin：README 不提 Grok Bot。
+- **recheck 延期 11 个到 11-05**：
+  - 10 个第 1 次延期，都是建仓后没有新提交。
+  - franklinjavier/grokbot-quota-template 第 2 次延期，再不过线就移出。
+- **X 收 3 篇**（docs 里已有，核过保留）：
+  - @VibeMarketer_：3.8 万粉。
+  - @thebobmcintosh：2 万粉，文末工作坊推广已在短评注明。
+  - @DotComParker：13.6 万粉。
+- **X 撤 1 篇**：@runes_leo 2115466116831068329。
+  - 提醒条件原文是 claim、mint、allowlist、snapshot，偏币圈空投；而且 1 赞 0 收藏。
+  - 你的短评把 mint 和 snapshot 换成了「抢先领取、白名单」，又是把原主题藏了。
+- X 从 232 篇增至 235 篇，教程合计从 265 增至 268，首图已重出。
+- **进 recheck 1 个**：huaspirit123/grokbot-visual-office，11-04 到期。
+- **不收 5 个**：
+  - alexkrnlv/grokbot-second-brain：无 License。
+  - Usefnoureldin/hostbase-grok-bot-plugin：单一商业服务。
+  - espinobj/grok-bot-tray：今天才建仓，下次有提交再报。
+  - talentacommerce、inorbit01：短帖。

diff --git a/.collab/loop-state.md b/.collab/loop-state.md
@@ -1,7 +1,7 @@
 # loop-state
-- last_run: 2026-10-28 22:22 Asia/Shanghai
-- last_to_claude_heading: ### 2026-10-28 22:10 Grok 请 loop 审
+- last_run: 2026-10-29 00:21 Asia/Shanghai
+- last_to_claude_heading: ### 2026-10-29 00:05 Grok 请 loop 审
 - idle_rounds: 0
-- rounds_this_session: 70
+- rounds_this_session: 71
 - session_started: 2026-10-21 11:50 Asia/Shanghai（10-21 22:40 起改为早 8 点到凌晨 2 点每 2h，不设轮数上限；cron 5294bf8e）
 - note: 10-21 规则调整：门槛见 CONTRIBUTING#收录门槛；暂缓仓见 recheck.md（每轮看到期行）；早 8 点到凌晨 2 点每 2h；promo 不再同步，README 首图用 scripts/banner.py 随数字重出（HTML 模板 assets/banner/banner.html），社交预览用不带数字的 social-card.png。README 分区 9 个、标题带 emoji，锚点带前导 -；🆕 最近更新留最近 3 行
